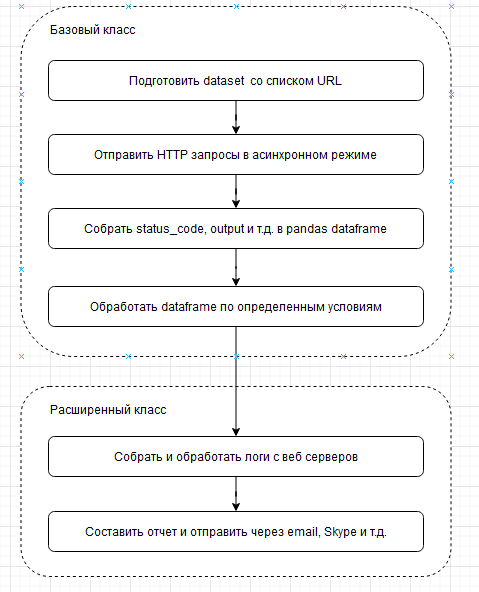
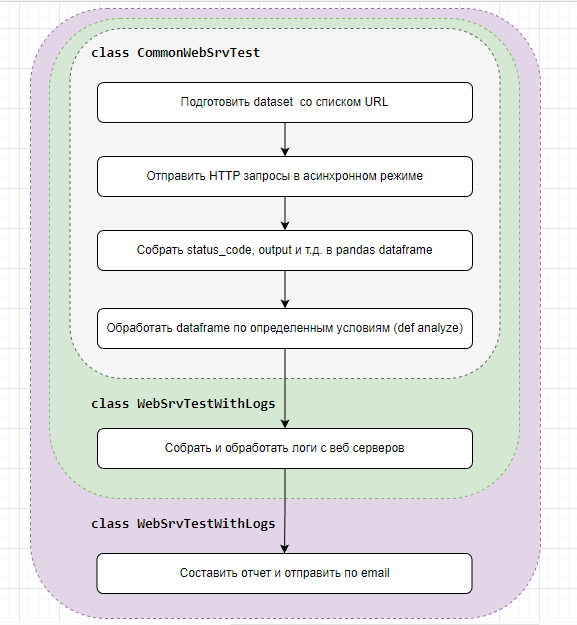
Update README.md

diff --git a/README.md b/README.md
@@ -2,24 +2,25 @@
 
 ## Краткое описание основного функционала
 
-webserver-test - проект, в котором показаны задачи из моей текущей работы и решения, которые я релизовал.
+webserver-test - проект для моего портфолио по разработке на Python.
+<br/>В проекте я показал несколько задач из области инфрастуктурной автоматизации и как я реализовал их решение.
+<br/>Задачи приблежены к тем, которые я решаю на текущем месте работы.
+<br/>Проект можно отнести к классу OAM tools для системных инженеров и отдела поддержки.
 
-Ядро проекта - классы CommonWebserverTest, WebserverTestWithLogs
+Ядро проекта - классы CommonWebSrvTest, WebSrvTestWithLogs, WebSrvTestWithAlerts
 
 Основной функционал:
 - отправка HTTP запросов по списку URL
 - обработка кодов ответа
-- сбор логов с веб серверов и отправка отчетов
+- сбор логов с веб серверов
+- отправка результата теста и логов на email
 
-Проект можно отнести к классу OAM tools для системных инженеров и отдела поддержки.
 
-
-P.S. Название сервисов, тестовых страниц, клиентов приведены только для демонстрации функционала проекта.
-<br/>Данные не связаны с тем, что у меня в продакшене
+P.S. Название сервисов, тестовых страниц, клиентов приведены только для демонстрации функционала проекта и не связаны с продакшеном моей фирмы
 
 ![](images/short_description.png)
 
-## Задачи, которые решает проект
+## Задачи проекта
 
 Моя фирма подключает и настривает сервера по всему миру.
 <br/>Несколько тысяч серверов и виртуальных машин, несколько тысяч клиентов.
